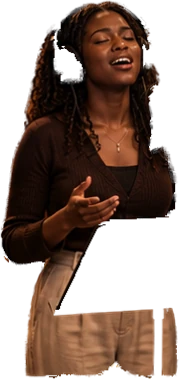
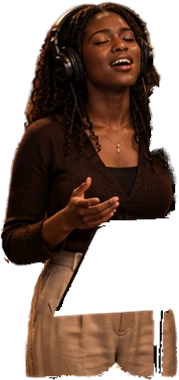
Studio Room: whole headphones, legs behind the stands, stands in front
The studio's singers were cut out without their headphones (SAM keeps the head
and drops the ear cups and headband) and without the parts of a body seen again
below a music stand's desk, and every stand, desk and microphone in front of
them left a hole in their cut-out. The empty room showed through all of it,
and while a song played the holes slid over the room as the singers swayed.

build_rooms.py gets per-room fixes (ROOM_FIXES, only the studio for now):
- each head is segmented again with a box around it and points on the ears,
  and what it adds goes to that singer;
- hint points bring back the back-left singer's legs below his desk;
- stands, desks and mics in front of the singers (pixels the choir picture
  shares with the empty room, with a singer on both sides, in shapes that
  carry on beyond the singer) go into the foreground layer, drawn from the
  empty room over the singers, who now sway behind fixed stands.

Only the studio's art is rebuilt; the other rooms are unchanged.

Claude-Session: https://claude.ai/code/session_01CZYUEJHobDieEXgMuJXyBS

diff --git a/tools/art/build_rooms.py b/tools/art/build_rooms.py
@@ -48,6 +48,16 @@ ROOM_FILES = {
 }
 # UI drawn into a mockup's scene that is not part of the room (painted out with the singers).
 OVERLAYS = {"hall": [(190, 104, 505, 182)]}   # the Concert Hall mockup's venue picker
+# Rooms whose singers stand behind microphones and music stands, and what SAM misses there:
+# - headgear: headphones (SAM keeps the head and drops the ear cups and headband);
+# - hidden: points (choir picture) on a body seen again below a music stand's desk;
+# - props: stands, desks and mics in front of the singers are drawn over them (from the
+#   empty room), so the singers sway behind them instead of carrying holes that slide over
+#   the room.
+ROOM_FIXES = {
+    "studio": dict(headgear=True, hidden=[(505, 505), (515, 535)], props=True),
+}
+PROPS_SAME = 16   # max colour difference (choir picture vs empty room) of a prop pixel
 
 
 def register_to_skin(img, skin):
@@ -243,6 +253,138 @@ def rescue_sam(tier, name, people, logits):
     return logits
 
 
+def _region_logits(mask):
+    """A hard (logits, origin) window for a boolean mask."""
+    ys, xs = np.nonzero(mask)
+    x0, y0, x1, y1 = xs.min(), ys.min(), xs.max() + 1, ys.max() + 1
+    return np.where(mask[y0:y1, x0:x1], 8.0, -8.0).astype(np.float32), (int(x0), int(y0))
+
+
+def empty_difference(tier, base, A):
+    """Per pixel, how different the choir picture is from the empty room (max over the
+    colour channels, lightly blurred), in choir-picture coordinates."""
+    H, W = tier.shape[:2]
+    base_t = cv2.warpAffine(base, cv2.invertAffineTransform(A), (W, H), flags=cv2.INTER_LINEAR,
+                            borderMode=cv2.BORDER_REPLICATE)
+    return np.abs(cv2.GaussianBlur(tier, (3, 3), 0).astype(np.int16)
+                  - cv2.GaussianBlur(base_t, (3, 3), 0).astype(np.int16)).max(axis=2)
+
+
+def worn_and_hidden(tier, name, people, logits, lab, fix, diff):
+    """What SAM leaves out of a singer in a studio: headphones (each head is segmented again
+    with a box around it and points on the ears, and what it gains around the head is
+    added) and a body seen again below a music stand (segmented from the room's hint
+    points; only pixels that differ from the empty room, so the desk itself stays out)."""
+    cache = WORK / f"worn_{name}.npz"
+    done = dict(np.load(cache)) if cache.exists() else {}
+    H, W = lab.shape
+    X0, Y0, X1, Y1 = CROP
+    kps = bs.pose_keypoints(tier, name, people)
+    heads = np.array([p["head"] for p in people])
+    sam = None
+    changed = False
+    regions = []
+
+    def get_sam():
+        nonlocal sam
+        if sam is None:
+            from sam_util import SoftSAM
+            sam = SoftSAM(str(bs.CACHE / "sam2.1_l.pt"))
+        return sam
+
+    def others(i, c0, r0, c1, r1):
+        return [(x - c0, y - r0) for j, (x, y) in enumerate(heads) if j != i and c0 < x < c1 and r0 < y < r1]
+
+    for i, p in enumerate(people):
+        kp = kps[i]
+        if fix.get("headgear") and kp is not None:
+            key = f"h{i}"
+            if key not in done:
+                ears = np.array(kp)[[3, 4], :2]
+                hw = max(abs(ears[0, 0] - ears[1, 0]), 50.0)
+                cx, ey = ears[:, 0].mean(), ears[:, 1].mean()
+                hb = [cx - 0.95 * hw, ey - 1.25 * hw, cx + 0.95 * hw, ey + 0.55 * hw]
+                c0, c1 = int(max(X0, hb[0] - 0.4 * hw)), int(min(X1, hb[2] + 0.4 * hw))
+                r0, r1 = int(max(Y0, hb[1] - 0.3 * hw)), int(min(Y1, hb[3] + 0.4 * hw))
+                s = get_sam()
+                s.set_crop(tier[r0:r1, c0:c1])
+                pos = [(heads[i][0] - c0, heads[i][1] - r0)] + [(x - c0, y - r0) for x, y in ears]
+                lg, score = s.logits([hb[0] - c0, hb[1] - r0, hb[2] - c0, hb[3] - r0], pos, others(i, c0, r0, c1, r1))
+                m = np.zeros((H, W), bool)
+                inbox = np.zeros(lg.shape, bool)
+                inbox[max(0, int(hb[1] - r0)):int(hb[3] - r0), max(0, int(hb[0] - c0)):int(hb[2] - c0)] = True
+                m[r0:r1, c0:c1] = (lg > 0) & inbox
+                done[key] = np.packbits(m)
+                changed = True
+                bs.log(f"  {name}: person {i} head again (score {score:.3f})")
+            m = np.unpackbits(done[key])[: H * W].reshape(H, W).astype(bool)
+            gain = m & ((lab < 0) | (lab == i))
+            if gain.any():
+                regions.append((i, gain))
+        hints = [h for h in fix.get("hidden", [])
+                 if min(range(len(people)), key=lambda j: abs(np.mean([kps[j][q][0] for q in (11, 12)]) - h[0])
+                        if kps[j] is not None else 1e9) == i]
+        if hints:
+            key = f"b{i}"
+            if key not in done:
+                hy = float(np.mean([kp[q][1] for q in (11, 12)]))
+                xs = [h[0] for h in hints]
+                c0, c1 = int(max(X0, min(xs) - 120)), int(min(X1, max(xs) + 120))
+                r0, r1 = int(hy - 80), Y1
+                s = get_sam()
+                s.set_crop(tier[r0:r1, c0:c1])
+                box = [max(0, min(xs) - c0 - 70), hy - 30 - r0, min(c1 - c0 - 1, max(xs) - c0 + 70), r1 - r0 - 1]
+                lg, score = s.logits(box, [(x - c0, y - r0) for x, y in hints], others(i, c0, r0, c1, r1))
+                m = np.zeros((H, W), bool)
+                m[r0:r1, c0:c1] = lg > 0
+                done[key] = np.packbits(m)
+                changed = True
+                bs.log(f"  {name}: person {i} body below the stand (score {score:.3f})")
+            m = np.unpackbits(done[key])[: H * W].reshape(H, W).astype(bool)
+            m &= (lab < 0) & (diff >= PROPS_SAME)
+            n, cc, _, _ = cv2.connectedComponentsWithStats(m.astype(np.uint8), 8)
+            keep = [cc[int(y), int(x)] for x, y in hints if cc[int(y), int(x)] > 0]
+            gain = np.isin(cc, keep)
+            if gain.any():
+                regions.append((i, gain))
+    if changed:
+        np.savez_compressed(cache, **done)
+    for i, gain in regions:
+        logits[i] = bs.merge_logits(logits[i], _region_logits(gain))
+        bs.log(f"  {name}: person {i} gains {int(gain.sum())} px")
+    return logits
+
+
+def props_in_front(lab, N, diff):
+    """Stands, desks and microphones in front of the singers (choir-picture coordinates):
+    pixels the choir picture shares with the empty room with a singer on both sides of them
+    (above and below, or left and right), in shapes that carry on beyond the singer the
+    way a stand or a desk does. Pockets of background a singer encloses (between an arm and
+    the body) do not, and are left alone."""
+    same = cv2.morphologyEx((diff < PROPS_SAME).astype(np.uint8), cv2.MORPH_CLOSE, bs.disk(1)) > 0
+    person = lab >= 0
+    env = np.zeros_like(person)
+    for i in range(N):
+        m = lab == i
+        if not m.any():
+            continue
+        cols = np.maximum.accumulate(m, axis=0) & np.maximum.accumulate(m[::-1], axis=0)[::-1]
+        rows = np.maximum.accumulate(m, axis=1) & np.maximum.accumulate(m[:, ::-1], axis=1)[:, ::-1]
+        env |= cols | rows
+    props = same & ~person & env
+    beyond = same & ~person & ~env
+    n, cc, st, _ = cv2.connectedComponentsWithStats(props.astype(np.uint8), 8)
+    keep = np.zeros(n, bool)
+    for q in range(1, n):
+        if st[q, cv2.CC_STAT_AREA] < 120:   # specks along a hairline are not stands
+            continue
+        x, y, w, h = st[q, :4]
+        x0, y0, x1, y1 = max(0, x - 3), max(0, y - 3), x + w + 3, y + h + 3
+        comp = cc[y0:y1, x0:x1] == q
+        keep[q] = (bs.dil(comp, 2) & beyond[y0:y1, x0:x1]).sum() >= 3
+    return keep[cc] & props
+
+
 def build(keys):
     skin = cv2.imread(str(SKIN), cv2.IMREAD_COLOR)
     _, rooms = load_rooms(keys)
@@ -270,6 +412,11 @@ def build(keys):
                f"shift={reg['shift_at_choir'][0]:+.1f},{reg['shift_at_choir'][1]:+.1f} inliers={reg['inliers']}")
         logits = rescue_sam(tier, name, people, bs.sam_logits(tier, name, people))
         lab = bs.ownership((H, W), logits)
+        fix = ROOM_FIXES.get(k, {})
+        diff = empty_difference(tier, base, A) if fix else None
+        if fix.get("headgear") or fix.get("hidden"):
+            logits = worn_and_hidden(tier, name, people, logits, lab, fix, diff)
+            lab = bs.ownership((H, W), logits)
         for stage in ("held", "limbs", "enclosed"):
             if stage == "held":
                 objs, recs = bs.held_objects(tier, name, people, lab)
@@ -298,6 +445,10 @@ def build(keys):
             below[dy:] |= person_b[:-dy]
         same = np.abs(tier_b.astype(np.int16) - base.astype(np.int16)).max(axis=2) < 40
         fg = below & ~person_b & same & (opening > 0.5)
+        if fix.get("props"):
+            props = props_in_front(lab, N, diff)
+            fg |= (cv2.warpAffine(props.astype(np.uint8), A, (W, H), flags=cv2.INTER_NEAREST) > 0) & (opening > 0.5)
+            bs.log(f"  props in front of the singers: {int(props.sum())} px")
         fg_a = cv2.GaussianBlur(fg.astype(np.float32), (0, 0), 0.7)
         fg_a = np.where(fg, 1.0, fg_a) * opening
         # hidden (hard-edged) zone for matting, in choir-picture coordinates

diff --git a/tools/art/README.md b/tools/art/README.md
@@ -167,11 +167,18 @@ The steps:
    and matting are the loft pipeline's. A big figure in front of the choir (the gospel
    director, the cathedral conductor) whose SAM mask comes back far smaller than its
    box is redone with points down the body and its enclosed holes filled.
+   Rooms in `ROOM_FIXES` (the studio) get more: each head is segmented again with a box
+   around it and points on the ears, so headphones belong to their singer; hint points
+   bring back a body seen again below a music stand's desk.
 4. **Choir onto the empty room.** The two pictures of a room are not drawn identically
    (the abbey's choir picture is 4% larger). SIFT on the architecture outside the
    singers gives the transform, and every sprite is warped with it.
 5. **Foreground.** Pixels of the empty room within a few pixels below a singer's edge,
-   where the choir picture shows the same scenery, are drawn over the singers.
+   where the choir picture shows the same scenery, are drawn over the singers. In rooms
+   with `props` (the studio), so are the stands, desks and microphones in front of the
+   singers: pixels the two pictures share, with a singer on both sides, in shapes that
+   carry on beyond the singer. The singers then sway behind fixed stands instead of
+   carrying holes that slide over the room.
 6. **Verification.** `.work/rooms/verify_<room>.jpg` puts the rebuilt room beside the
    mockup; `verify_<room>_third.jpg` shows a third of the choir; `labels_<room>.png`
    shows the masks and the occlusion.
